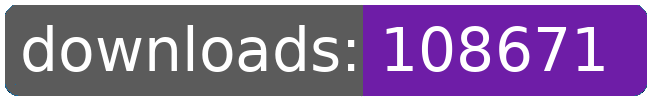
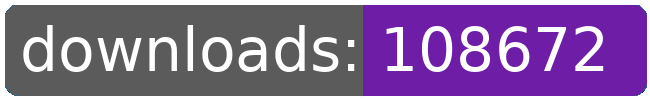
dl log written

Changed region(s): [[0.8615, 0.24, 0.9538, 0.72]]

diff --git a/README.md b/README.md
@@ -21,8 +21,8 @@
 		<td>7374</td>
 		<td>7400</td>
 		<td>7425</td>
-		<td>7441</td>
-		<td>+ 16</td>
+		<td>7442</td>
+		<td>+ 17</td>
 	</tr>
 	<tr>
 		<td>aberrant.kahet.outfitter</td>
@@ -274,8 +274,8 @@
 		<td></td>
 		<td></td>
 		<td></td>
-		<td>108671</td>
-		<td>325</td>
+		<td>108672</td>
+		<td>326</td>
 	</tr>
 </table>
 </sub></sup>
@@ -300,8 +300,8 @@
 		<td>7374</td>
 		<td>7400</td>
 		<td>7425</td>
-		<td>7441</td>
-		<td>+ 16</td>
+		<td>7442</td>
+		<td>+ 17</td>
 	</tr>
 	<tr>
 		<td>aberrant.kahet.outfitter</td>
@@ -553,8 +553,8 @@
 		<td></td>
 		<td></td>
 		<td></td>
-		<td>108671</td>
-		<td>325</td>
+		<td>108672</td>
+		<td>326</td>
 	</tr>
 </table>
 </sub></sup>
